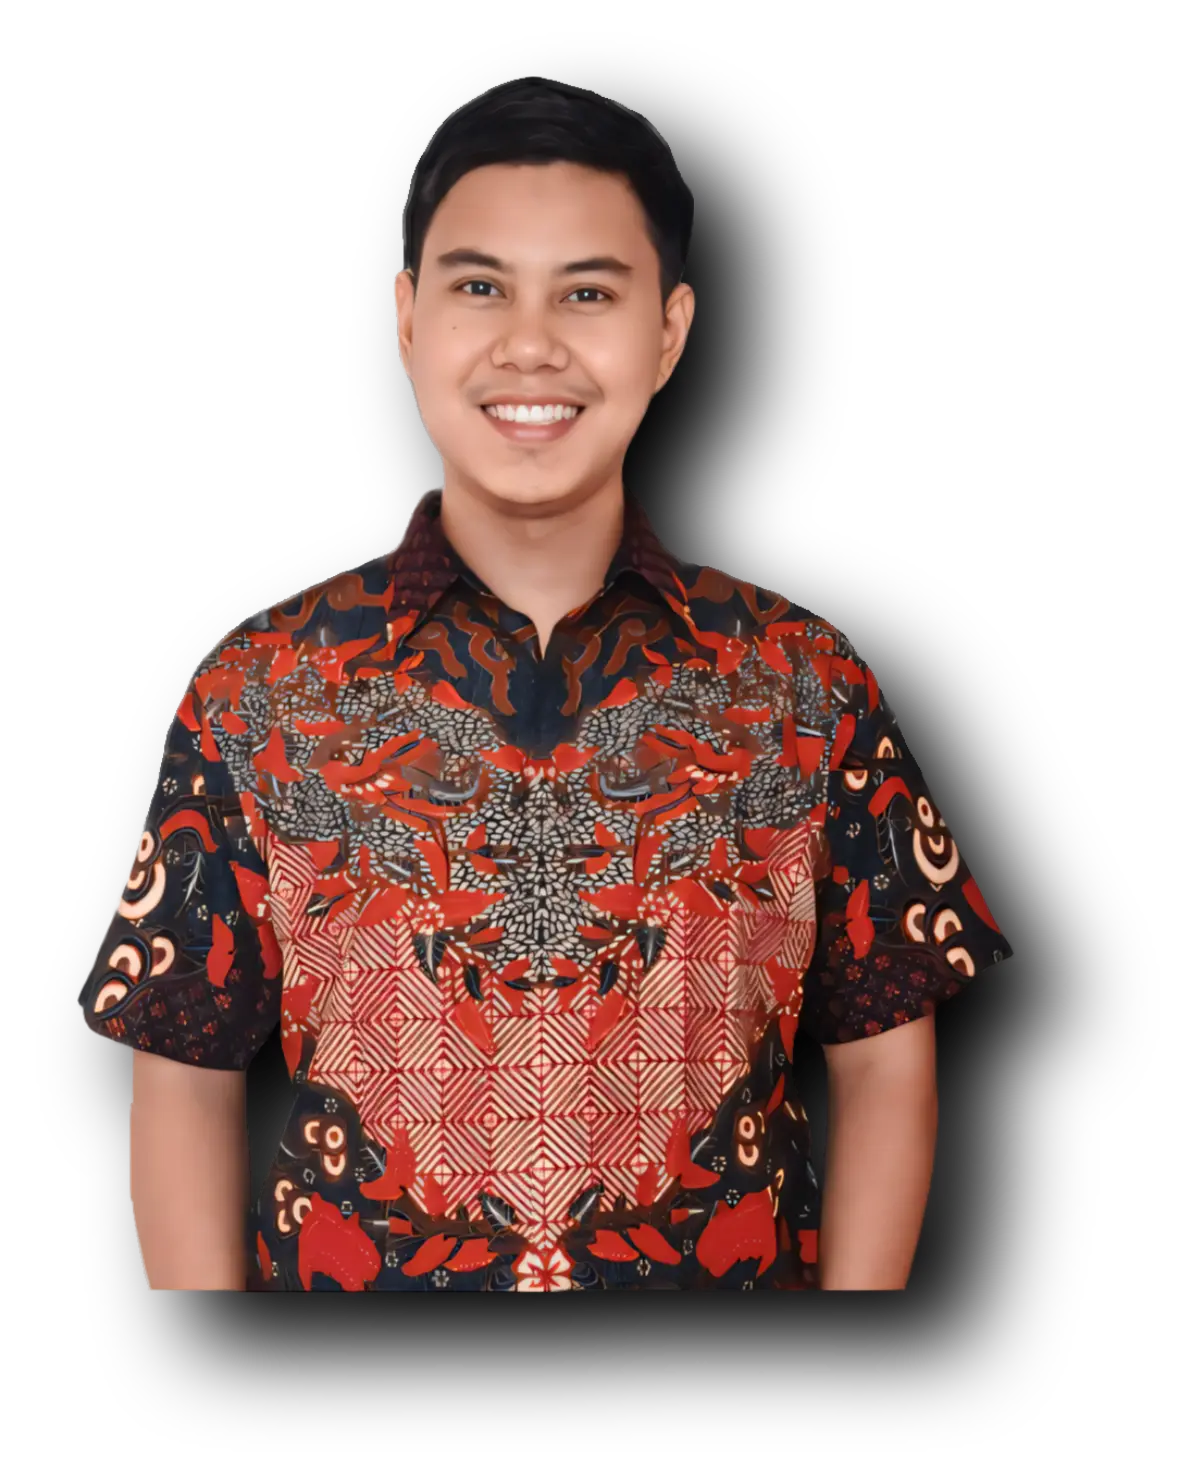
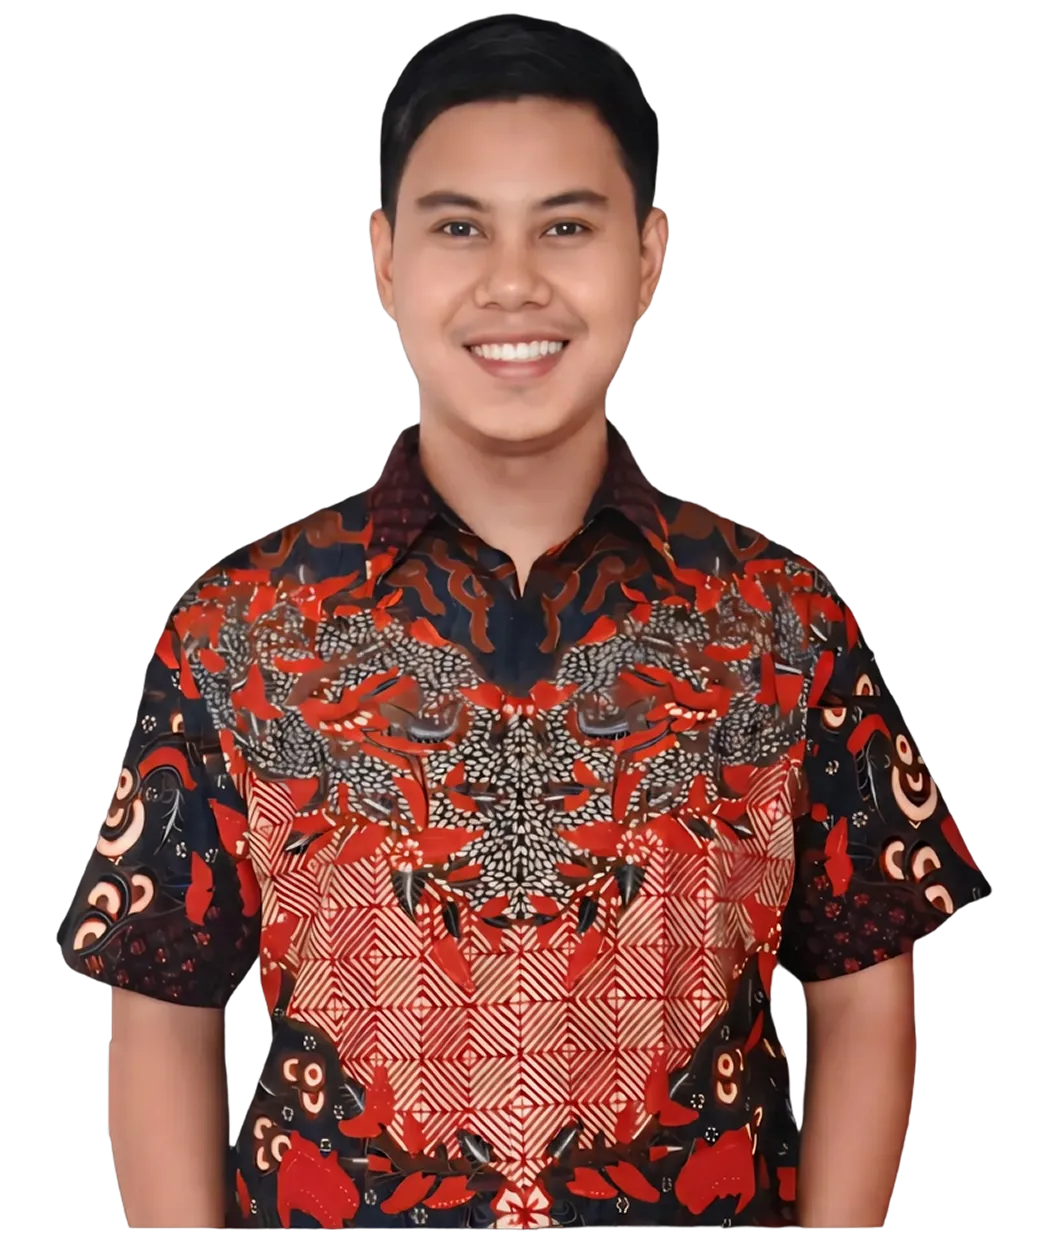
update pp

diff --git a/src/pages/sections/HeroSection.jsx b/src/pages/sections/HeroSection.jsx
@@ -163,25 +163,59 @@ const HeroSection = () => {
       {/* Container Kanan */}
       <div className="flex-1 flex justify-center items-center order-1 sm:order-2 relative">
         {/* 3 Kunang-kunang di belakang */}
-        <motion.div style={{ x: bgX, y: bgY }} className="absolute top-1/4 right-[10%] sm:right-[20%] pointer-events-none z-0">
+        <motion.div
+          style={{ x: bgX, y: bgY }}
+          className="absolute top-1/4 right-[10%] sm:right-[20%] pointer-events-none z-0"
+        >
           <motion.div
             className="w-2 h-2 bg-red-700/80 rounded-full shadow-[0_0_20px_rgba(185,28,28,1)]"
-            animate={{ opacity: [0.6, 1, 0.6], scale: [0.8, 1.2, 0.8], x: [0, 10, -5, 0], y: [0, -10, 5, 0] }}
+            animate={{
+              opacity: [0.6, 1, 0.6],
+              scale: [0.8, 1.2, 0.8],
+              x: [0, 10, -5, 0],
+              y: [0, -10, 5, 0],
+            }}
             transition={{ duration: 4, repeat: Infinity, ease: "easeInOut" }}
           />
         </motion.div>
-        <motion.div style={{ x: bgX, y: bgY }} className="absolute top-1/2 left-[10%] sm:left-[20%] pointer-events-none z-0">
+        <motion.div
+          style={{ x: bgX, y: bgY }}
+          className="absolute top-1/2 left-[10%] sm:left-[20%] pointer-events-none z-0"
+        >
           <motion.div
             className="w-3 h-3 bg-red-700/80 rounded-full shadow-[0_0_25px_rgba(185,28,28,1)]"
-            animate={{ opacity: [0.7, 1, 0.7], scale: [0.9, 1.3, 0.9], x: [0, -15, 5, 0], y: [0, 10, -10, 0] }}
-            transition={{ duration: 5, repeat: Infinity, ease: "easeInOut", delay: 0.5 }}
+            animate={{
+              opacity: [0.7, 1, 0.7],
+              scale: [0.9, 1.3, 0.9],
+              x: [0, -15, 5, 0],
+              y: [0, 10, -10, 0],
+            }}
+            transition={{
+              duration: 5,
+              repeat: Infinity,
+              ease: "easeInOut",
+              delay: 0.5,
+            }}
           />
         </motion.div>
-        <motion.div style={{ x: bgX, y: bgY }} className="absolute bottom-1/4 right-[15%] sm:right-[25%] pointer-events-none z-0">
+        <motion.div
+          style={{ x: bgX, y: bgY }}
+          className="absolute bottom-1/4 right-[15%] sm:right-[25%] pointer-events-none z-0"
+        >
           <motion.div
             className="w-2 h-2 bg-orange-400/80 rounded-full shadow-[0_0_20px_rgba(251,146,60,1)]"
-            animate={{ opacity: [0.6, 1, 0.6], scale: [0.8, 1.1, 0.8], x: [0, 10, -10, 0], y: [0, 15, -5, 0] }}
-            transition={{ duration: 4.5, repeat: Infinity, ease: "easeInOut", delay: 1 }}
+            animate={{
+              opacity: [0.6, 1, 0.6],
+              scale: [0.8, 1.1, 0.8],
+              x: [0, 10, -10, 0],
+              y: [0, 15, -5, 0],
+            }}
+            transition={{
+              duration: 4.5,
+              repeat: Infinity,
+              ease: "easeInOut",
+              delay: 1,
+            }}
           />
         </motion.div>
 
@@ -190,33 +224,74 @@ const HeroSection = () => {
           tiltMaxAngleY={5}
           tiltReverse={true}
           perspective={1000}
-          transitionSpeed={1000}
-          scale={1.02}
+          transitionSpeed={15000}
+          scale={1.0}
           gyroscope={true}
           trackOnWindow={true}
           className="relative z-10"
         >
-          {/* Foto utama */}
-          <img
-            src={johandika}
-            alt="Johandika Syahputra Lubis"
-            className="sm:w-fit h-[400px] sm:h-[450px] md:h-[600px] object-cover"
-          />
+          {/* Foto utama dengan efek screen 20% */}
+          <div className="relative">
+            {/* Gambar dasar */}
+            <img
+              src={johandika}
+              alt="Johandika Syahputra Lubis"
+              className="sm:w-fit h-[400px] sm:h-[450px] md:h-[600px] object-cover drop-shadow-[15px_0px_30px_rgba(0,0,0,1.8)] pb-12"
+            />
+            {/* Screen 5% */}
+            <img
+              src={johandika}
+              alt=""
+              className="absolute inset-0 sm:w-fit h-[400px] sm:h-[450px] md:h-[600px] object-cover mix-blend-screen opacity-10 pb-12 pointer-events-none"
+            />
+            {/* Overlay 20% */}
+            <img
+              src={johandika}
+              alt=""
+              className="absolute inset-0 sm:w-fit h-[400px] sm:h-[450px] md:h-[600px] object-cover mix-blend-overlay opacity-5 pb-12 pointer-events-none"
+            />
+          </div>
         </Tilt>
 
         {/* 2 Kunang-kunang di depan/atas */}
-        <motion.div style={{ x: fgX, y: fgY }} className="absolute top-1/3 left-[15%] sm:left-[30%] pointer-events-none z-20">
+        <motion.div
+          style={{ x: fgX, y: fgY }}
+          className="absolute top-1/3 left-[15%] sm:left-[30%] pointer-events-none z-20"
+        >
           <motion.div
             className="w-2 h-2 bg-orange-400/80 rounded-full shadow-[0_0_25px_rgba(251,146,60,1)]"
-            animate={{ opacity: [0.6, 1, 0.6], scale: [0.7, 1.2, 0.7], x: [0, -10, 15, 0], y: [0, -10, 10, 0] }}
-            transition={{ duration: 5.5, repeat: Infinity, ease: "easeInOut", delay: 0.2 }}
+            animate={{
+              opacity: [0.6, 1, 0.6],
+              scale: [0.7, 1.2, 0.7],
+              x: [0, -10, 15, 0],
+              y: [0, -10, 10, 0],
+            }}
+            transition={{
+              duration: 5.5,
+              repeat: Infinity,
+              ease: "easeInOut",
+              delay: 0.2,
+            }}
           />
         </motion.div>
-        <motion.div style={{ x: fgX, y: fgY }} className="absolute bottom-1/3 right-[20%] sm:right-[30%] pointer-events-none z-20">
+        <motion.div
+          style={{ x: fgX, y: fgY }}
+          className="absolute bottom-1/3 right-[20%] sm:right-[30%] pointer-events-none z-20"
+        >
           <motion.div
             className="w-3 h-3 bg-yellow-300/80 rounded-full shadow-[0_0_30px_rgba(253,224,71,1)]"
-            animate={{ opacity: [0.7, 1, 0.7], scale: [0.8, 1.3, 0.8], x: [0, 15, -10, 0], y: [0, 5, -15, 0] }}
-            transition={{ duration: 6, repeat: Infinity, ease: "easeInOut", delay: 0.8 }}
+            animate={{
+              opacity: [0.7, 1, 0.7],
+              scale: [0.8, 1.3, 0.8],
+              x: [0, 15, -10, 0],
+              y: [0, 5, -15, 0],
+            }}
+            transition={{
+              duration: 6,
+              repeat: Infinity,
+              ease: "easeInOut",
+              delay: 0.8,
+            }}
           />
         </motion.div>
       </div>

diff --git a/src/components/Johann3DModel.jsx b/src/components/Johann3DModel.jsx
@@ -1,0 +1,43 @@
+import React, { Suspense } from "react";
+import { Canvas } from "@react-three/fiber";
+import { OrbitControls, useGLTF, Environment } from "@react-three/drei";
+import johannGlb from "../assets/images/3d/johann-v1.glb";
+
+function Model({ url }) {
+  const { scene } = useGLTF(url);
+  // Optional: Center and scale the model here or let OrbitControls frame it
+  return (
+    <primitive
+      object={scene}
+      scale={5.3}
+      position={[0, 0, 0]}
+    />
+  );
+}
+
+const Johann3DModel = () => {
+  return (
+    <div className="w-full h-[400px] sm:h-[450px] md:h-[600px] cursor-grab active:cursor-grabbing relative z-10">
+      <Canvas camera={{ position: [0, 0, 8], fov: 50 }}>
+        <ambientLight intensity={0.5} />
+        <directionalLight
+          position={[10, 10, 5]}
+          intensity={1}
+        />
+        <Suspense fallback={null}>
+          <Model url={johannGlb} />
+          <Environment preset="city" />
+        </Suspense>
+        <OrbitControls
+          enableZoom={false}
+          autoRotate
+          autoRotateSpeed={1.5}
+          maxPolarAngle={Math.PI / 2 + 0.2}
+          minPolarAngle={Math.PI / 2 - 0.2}
+        />
+      </Canvas>
+    </div>
+  );
+};
+
+export default Johann3DModel;